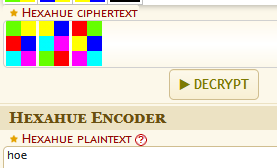
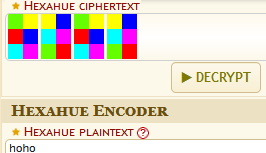
:ambulance: Changed flag from "hoe" to "hoho" (ups)

diff --git a/README.md b/README.md
@@ -25,7 +25,7 @@ Flag-Format: nland{}
 - [x] This is fine (Flag in image properties) - Easy (Jen)
 - [x] (^_^) (Obfuscated JS) - Easy (Fabi)
 - [x] Rick roll (Binary Data in YouTube Video) - Medium (Jen)
-- [ ] Brainfuck Catpiler - Hard (Jen)
+- [x] Catpiler (Brainfuck) - Hard (Jen)
 
 ### Blue Team
 - [x] Bad Ducky (Recover deleted file) - Easy (Jen)
